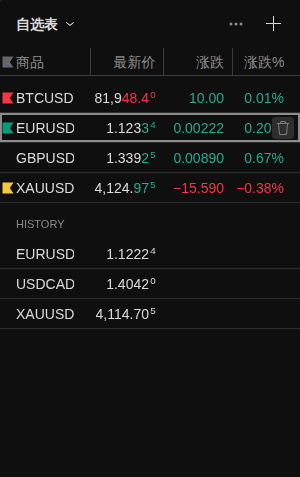
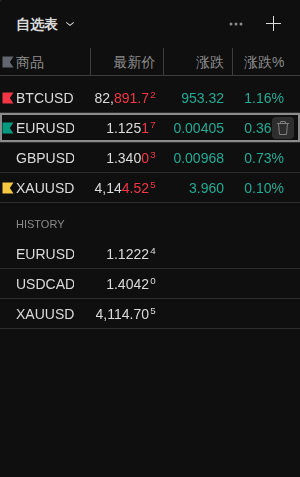
docs: archive final quote fix review and c2 acceptance

diff --git a/docs/verification/quote-fixes-20261020/README.md b/docs/verification/quote-fixes-20261020/README.md
@@ -1,37 +1,38 @@
 # 两项行情问题修复与验收（2026-10-20）
 
-风险F0：兼容的行情状态分类、共享任务通知和价格显示修复，无schema或持久格式迁移。用户授权修复、验收、提交PR并review。候选源码`1796ade`，实际镜像见运行审计。沿用长期实例与现有配置；原用户页面和浏览器现场保留。
+风险F0：兼容的行情状态分类、共享任务通知和价格显示修复，无schema或持久格式迁移。用户授权修复、验收、提交PR并review。首轮源码`1796ade`，review返工源码`25152a4`（API/worker c2；Chart/Web保留c1），实际镜像见运行审计。沿用长期实例与现有配置；原用户页面和浏览器现场保留。
 
 ## 行为变化
 
 - OANDA共享缓存过期/首次等待现在分别输出`stale`/`pending`，保留原始价格及采样时间，附缓存年龄、最后成功读取和等待原因。等待不立即生成失败事故，也不恢复已有事故。真实网络异常继续作为失败。
-- 同一共享任务先以2–2.5秒间隔重读缓存，连续等待30秒升级为“OANDA 报价暂未更新”，随后恢复正常15秒节奏。没有新增供应商HTTP轮询；多窗口仍归属一个任务。取消观察重置等待窗口，不把取消当恢复。真实成功采集更新后恢复。
+- 同一共享任务先以2–2.5秒间隔重读缓存，连续等待30秒升级为“OANDA 报价暂未更新”，随后恢复正常15秒节奏。等待时也跳过可能打开D1请求的昨收派生查询；关闭通知源时保持15秒节奏。没有新增供应商HTTP轮询；多窗口仍归属一个任务。取消观察重置等待窗口，不把取消当恢复。真实成功采集更新后恢复。
 - 自建行情报价沿用原生声明的品种精度，Dukascopy等供应商展示默认不再覆盖自建系列。平台行情仍沿用原有供应商政策，原始报价不舍入。
 
 ## 验证
 
 - 修复前回归明确失败：自建5位价格被scale=100覆盖；共享缓存16秒过期进入失败通知。原只读分析证据保留于相邻两个目录。
-- 定向后端48项通过，包含真实共享缓存→报价快照→持久通知投影，多消费者、首次无报价、短暂等待、30秒升级、取消后重开、真实恢复和有限快探测。见[targeted-backend.log](targeted-backend.log)。
-- 实际API候选镜像中的产品代码、只挂载测试目录，在无网络的独立临时容器和内存SQLite运行11项，全部通过。未往真实实例写入故障样本，见[image-regression.log](image-regression.log)。
+- 首轮定向后端48项通过，包含真实共享缓存→报价快照→持久通知投影，多消费者、首次无报价、短暂等待、30秒升级、取消后重开、真实恢复和有限快探测。见[targeted-backend.log](targeted-backend.log)。
+- 首轮API候选镜像中的产品代码、只挂载测试目录，在无网络的独立临时容器和内存SQLite运行11项，全部通过。未往真实实例写入故障样本，见[image-regression.log](image-regression.log)。
 - 供应商扩展94项通过，另1项既有60ms预算测试在本机波动；相同完整测试文件在修改前基线同样94通过/1失败，见[候选](provider-regression.log)与[基线对照](baseline-provider-regression.log)。曾有一次包含该项的扩展执行通过；不把本地全套写成全绿，最终完整结果看PR CI。
+- Review返工后，真实派生路径不再全局替换昨收查询，以`native_page`守卫禁止等待态供应商请求；修复前明确失败，见[返工前回归](derived-query-before-fix.log)。最终定向后端**49项通过**，最终c2镜像只挂测试目录**12项通过**，见[targeted-backend-c2.log](targeted-backend-c2.log)、[image-regression-c2.log](image-regression-c2.log)。关闭通知源的0/31秒轮询节奏亦覆盖。
 - 价格格式、订阅传输恢复、原生chunk恢复、偏好保存通知检查通过；Ruff、JS语法、diff检查和Web完整构建通过。
 - Playwriter正常登录自有隔离context访问`mw75-real`：自选表EURUSD `1.12224`、USDCAD `1.40420`、黄金`4,114.705`，DOM/aria与原始价格及精度逐一匹配；刷新后仍相同。平台外汇5位、黄金3位和BTC2位继续可用。[浏览器断言](browser-evidence.json)、[实拍](watchlist-current.png)。等待态纯函数验证保持原价，描述为“报价暂未更新，保留上次数据”，未向页面发布合成行情。
-- 实例只读检查4个相关共享报价任务均`fetch_status=ok`、`notice_open=false`；[当前任务](live-shared-tasks.json)。此观察不冒充长时间稳定性保证；持续等待和故障恢复由上述确定性回归覆盖。
+- 实例只读检查4个相关共享报价任务均`fetch_status=ok`、`notice_open=false`；[首轮任务](live-shared-tasks.json)；最终c2更新后14:27 UTC重新只读检查4任务仍均ok且无open事故，见[最终任务](live-shared-tasks-c2.json)。此观察不冒充长时间稳定性保证；持续等待和故障恢复由上述确定性回归覆盖。
 
 ## 实际实例与回退
 
-Ubuntu `quant-server`，Compose project `mw-issue75-v2-20261018`；[验收页](https://192.168.7.232:18280/advanced-charts/mw75-real?panel=notifications)。15服务running，API/PG healthy。13应用服务更新；PG、gateway、初始化容器未替换，全部17容器环境与挂载逐一比对不变，11个运行后端Yahoo均保持true。未migrate、seed或清数据。
+Ubuntu `quant-server`，Compose project `mw-issue75-v2-20261018`；[验收页](https://192.168.7.232:18280/advanced-charts/mw75-real?panel=notifications)。15服务running，API/PG healthy。首轮13应用服务更新，review后再仅更新11个后端，Chart/Web保留原容器；PG、gateway、初始化容器未替换，全部17容器环境与挂载逐一核对不变，11个运行后端Yahoo均保持true。未migrate、seed或清数据。
 
 | 制品 | Tag | 镜像ID |
 | --- | --- | --- |
-| API及10个worker | `market-watch-api:quote-fixes-20261020-c1` | `sha256:11a7e86758538da2659ee7515cb4939598944cb6580b1457e9cb2a71348ed216` |
+| API及10个worker | `market-watch-api:quote-fixes-20261020-c2` | `sha256:4bc4bfe91dc9518d3eab50267c4d53a98a6e91a14f446fc134c5aaeafacae00f` |
 | Chart | `market-watch-chart:quote-fixes-20261020-c1` | `sha256:affc34fdc1e69acfe6bf0b4f0f1debf763c60c1bc458ae37a6f3e8489a9bf410` |
 | Web | `market-watch-web:quote-fixes-20261020-c1` | `sha256:bde9ec702519142fa969377440a987f6c09bd14b622bf513d1b8e6fa25e142e5` |
 
-安装版mw-docker与market-watch-ubuntu builder构建；构建时只有已知无关未跟踪历史文档，产品源码固定到候选。完整[运行审计](running-audit.json)。
+安装版mw-docker与market-watch-ubuntu builder构建；构建时只有已知无关未跟踪历史文档，产品源码固定到候选。[首轮运行审计](running-audit.json)、[最终c2运行审计](running-audit-c2.json)。最终审计对保留容器以不变容器ID证明固定mount配置，重建后端比对完整mount哈希；Docker inspect可能重排同一gateway的mount列表，不误报为配置变更。
 
-启动/状态/停止：`python /home/quant/repos/.mw-notification-batch-20261020/operate.py start|status|stop`，其candidate overlay已指向本轮候选。本轮回退必须使用私有`quote-fixes-rollback.json`，结合原`integrated-compose.json`，仅对该overlay列出的13服务执行`up -d --no-deps --no-build --pull never`；不要用旧批次默认rollback代替。旧镜像保留。未合并或发布生产。
+启动/状态/停止：`python /home/quant/repos/.mw-notification-batch-20261020/operate.py start|status|stop`，其candidate overlay已指向最终API c2 / Chart-Web c1。c2局部回退使用私有`quote-fixes-c2-rollback.json`，仅指定11后端回c1；本轮回退必须使用私有`quote-fixes-rollback.json`，结合原`integrated-compose.json`，仅对该overlay列出的13服务执行`up -d --no-deps --no-build --pull never`；不要用旧批次默认rollback代替。旧镜像保留。未合并或发布生产。
 
 ## PR与review
 
-沿用Draft PR #87；review范围采用PR实际base到最终HEAD，同时对本轮两项缺陷重点回查。最终review报告另行归档，最终CI以该PR当前HEAD为准，不通过回填CI状态再触发无穷构建。
+沿用Draft PR #87；review范围采用PR实际base到最终HEAD，同时对本轮两项缺陷重点回查。Standards与Spec各发现1项P2，均已修复并复核，当前无剩余明确阻断；[最终review报告](code-review.md)。最终CI以该PR当前HEAD为准，不通过回填CI状态再触发无穷构建。

diff --git a/docs/notification-acceptance-pending-20261019.md b/docs/notification-acceptance-pending-20261019.md
@@ -348,21 +348,21 @@
 
 ## 22. 共享行情等待状态与真实读取失败混淆
 
-**状态：已修复并通过实例验收，等待最终PR review/CI。用户于 2026-10-20 后续要求将本项与第23项一并修复、验收、提交PR并review，取代此前暂不实现的决定。**
+**状态：已修复并通过实例验收，Standards/Spec review已完成，最终CI以PR当前HEAD checks为准。用户于 2026-10-20 后续要求将本项与第23项一并修复、验收、提交PR并review，取代此前暂不实现的决定。**
 
 - 已在长期验收实例只读定位：截至 2026-10-20 13:14 UTC，过去24小时查询到19条“共享行情读取失败”，其中17条为OANDA `HistoryPending`，2条为Binance `ConnectTimeout`；观察时相关4个共享报价任务均已正常。
 - OANDA在REST批次模式下由账户worker更新共享缓存。缓存为空或距更新达到15秒时，读取端抛`HistoryPending`；通用异常分支将其归为`fetch_failed`，通知端再生成“共享行情读取失败”。隔离回放已证明缓存14秒正常、16秒生成同标题，过程中无供应商HTTP请求。
 - 日志另有OANDA超时、504及缓存写入繁忙，可能推迟更新；现有证据不能把每次等待都精确归因于这些日志。Binance两条为真实连接超时，不将其当作等待状态。
-- 待实施方案：区分pending/stale/failed；旧价格保留真实采样时间并标注暂未更新；共享任务有限短间隔重读缓存，持续等待按独立阈值升级；真实网络/鉴权错误保留告警；补充缓存年龄、最近成功与采集结果。pending和旧缓存不能充当恢复证据。
+- 原方案（核心修复已实施）：区分pending/stale/failed；旧价格保留真实采样时间并标注暂未更新；共享任务有限短间隔重读缓存，持续等待按独立阈值升级；真实网络/鉴权错误保留告警；补充缓存年龄、最近成功与采集结果。pending和旧缓存不能充当恢复证据。
 - 后续验收覆盖冷启动、短暂过期、持续超期、写入竞争、上游504、连接超时和真实恢复，保留共享任务去重、多窗口隔离及历史记录。不通过单纯扩大15秒阈值或屏蔽消息隐藏故障。
-- [详细诊断与方案](verification/shared-market-pending-20261020/README.md)、[脱敏只读证据](verification/shared-market-pending-20261020/evidence.json)。本项只记录，没有产品实现或部署。
+- [详细诊断与方案](verification/shared-market-pending-20261020/README.md)、[脱敏只读证据](verification/shared-market-pending-20261020/evidence.json)保留分析当时的只读状态；当前实现及部署以本节状态和下方22–23完成记录为准。
 
 ## 23. 自选表自建行情最新价格未按配置精度显示
 
-**状态：已记录待改动，并已修复通过实例验收，等待最终PR review/CI。**
+**状态：已记录待改动，并已修复通过实例验收，Standards/Spec review已完成，最终CI以PR当前HEAD checks为准。**
 
 - Playwriter实际登录验收页复现：自建历史EURUSD原值1.12224、精度5位却显示1.12；USDCAD原值1.4042、精度5位却显示1.40；黄金原值4114.705、精度3位却显示4,114.71。
 - 原始报价与precision配置正确；共用报价呈现逻辑忽略自建系列precision，缺少asset_type/display_precision时按Dukascopy默认两位覆盖了原生pricescale。
 - 修复要求：自建系列采用该系列配置精度，固定小数位并补尾零；原始数值保留；平台供应商显示政策不受影响。检查初始快照、持续更新、商品详情、刷新与切换，不用统一硬编码位数。
 - [只读分析与实拍](verification/watchlist-precision-analysis-20261020/README.md)。本次作为F0兼容性修复，无schema或持久格式迁移；验证采用定向回归、既有PR CI及原长期实例R1业务验收。按用户要求提交PR并完成Standards/Spec双轴review，不合并、不发布生产。
-- 22–23修复源码`1796ade`已更新至原长期实例；[修复与验收证据](verification/quote-fixes-20261020/README.md)。第22项原“只记录”描述为历史分析时状态，本条完成记录取代旧状态。
+- 22–23首轮源码`1796ade`及review返工`25152a4`已更新至原长期实例（API c2 / Chart-Web c1）；[修复与验收证据](verification/quote-fixes-20261020/README.md)。第22项原“只记录”描述为历史分析时状态，本条完成记录取代旧状态。

diff --git a/docs/verification/quote-fixes-20261020/code-review.md b/docs/verification/quote-fixes-20261020/code-review.md
@@ -1,0 +1,29 @@
+# PR #87 最终增量审查与返工
+
+使用code-review skill的独立Standards／Spec两轴审查。固定PR base `2fe919a23d4adcb97ca1a98caafbad8693a410d3` 到 `e6c3943f6f26bb87d9dae750173c847dd7c5dcff`，结合此前全PR/13–21审查记录核查整体接入，重点本轮22–23及工具栏补丁；返工固定提交 `25152a409bc7d2a4d3b64751e7f3f1b5e5e9a109`。文档归档不改变产品代码。
+
+## Standards
+
+标准来源：AGENTS.md、CONTEXT.md、deploy/ubuntu/README.md，加skill的Fowler smell基线。未发现剩余明确规范违规或需整改smell。
+
+发现1项P2：关闭`notification_center_sources_enabled`时，record_result不写waiting_since，Calculator每次以now回退导致2–2.5秒探测无界。返工增加配置开关保护，关闭时保持原15秒；新增0/31秒回归。独立静态复核确认修复，最终另行窄复核25152a4三个Python文件（含D1返工）通过，无新阻断。主会话最终定向49项通过。
+
+Standards独立执行价格格式、provider subscriptions、真实原生ToolbarIconButton及模板顺序回归均PASS。未独立重跑全量Docker/浏览器，不将主会话验收冒称代理实测。
+
+## Spec
+
+需求来源：Issue #75、通知合同与实施记录、待改清单22–23、两项只读分析及本轮验收README。
+
+发现1项P2：stale保留bars后仍计算quote_previous_close，冷D1缓存会打开单品种HTTP，违反“有限缓存重读，不额外打开供应商请求”。独立无网络调用链实证stale时进入D1/count2上游。原fixture全局替换昨收查询，漏掉此路径。
+
+返工：pending/stale跳过派生昨收读取；保留正常报价的既有流程。fixture移除全局昨收替身，以native_page守卫覆盖真实派生路径，修复前明确红、修复后通过。Spec独立运行最新共享等待文件**6 passed**；同时复核关闭通知源的15秒保护。
+
+整体集成及新增重点无其他明确偏差：等待既不报错也不恢复；持续30秒升级、旧价采样时间保留；共享事故去重、取消与真实恢复分离；自建精度补零及平台政策、原生工具栏模板排序正确。代理分段诊断与账户批次持久化属于后续扩展。独立前端价格、provider subscriptions、notifications runtime、advanced market stream四项PASS。
+
+## 最终验证边界
+
+产品返工49项定向后端及最终API c2镜像代码12项PASS，Ruff/diff通过。原生浏览器自建价格三行在c2更新后再次匹配；Chart/Web未改。15服务running，API/PG healthy，11运行后端Yahoo=true，环境/挂载、PG/gateway/初始化及原浏览器现场保留。
+
+首轮固定HEAD `e6c3943` 的CI [39434933202](https://github.com/hezongyi/market-watch/actions/runs/39434933202) 全部success；返工与最终归档以PR当前HEAD checks为最终结果。修改前后同样存在的本地60ms预算波动保留原始日志，不作为忽略新CI失败的理由。
+
+Standards：1项P2已关闭，剩余0；Spec：1项P2已关闭，剩余0。代码审查、实例业务验收与最终CI分别记录。保持Draft，未合并、未发布生产。
